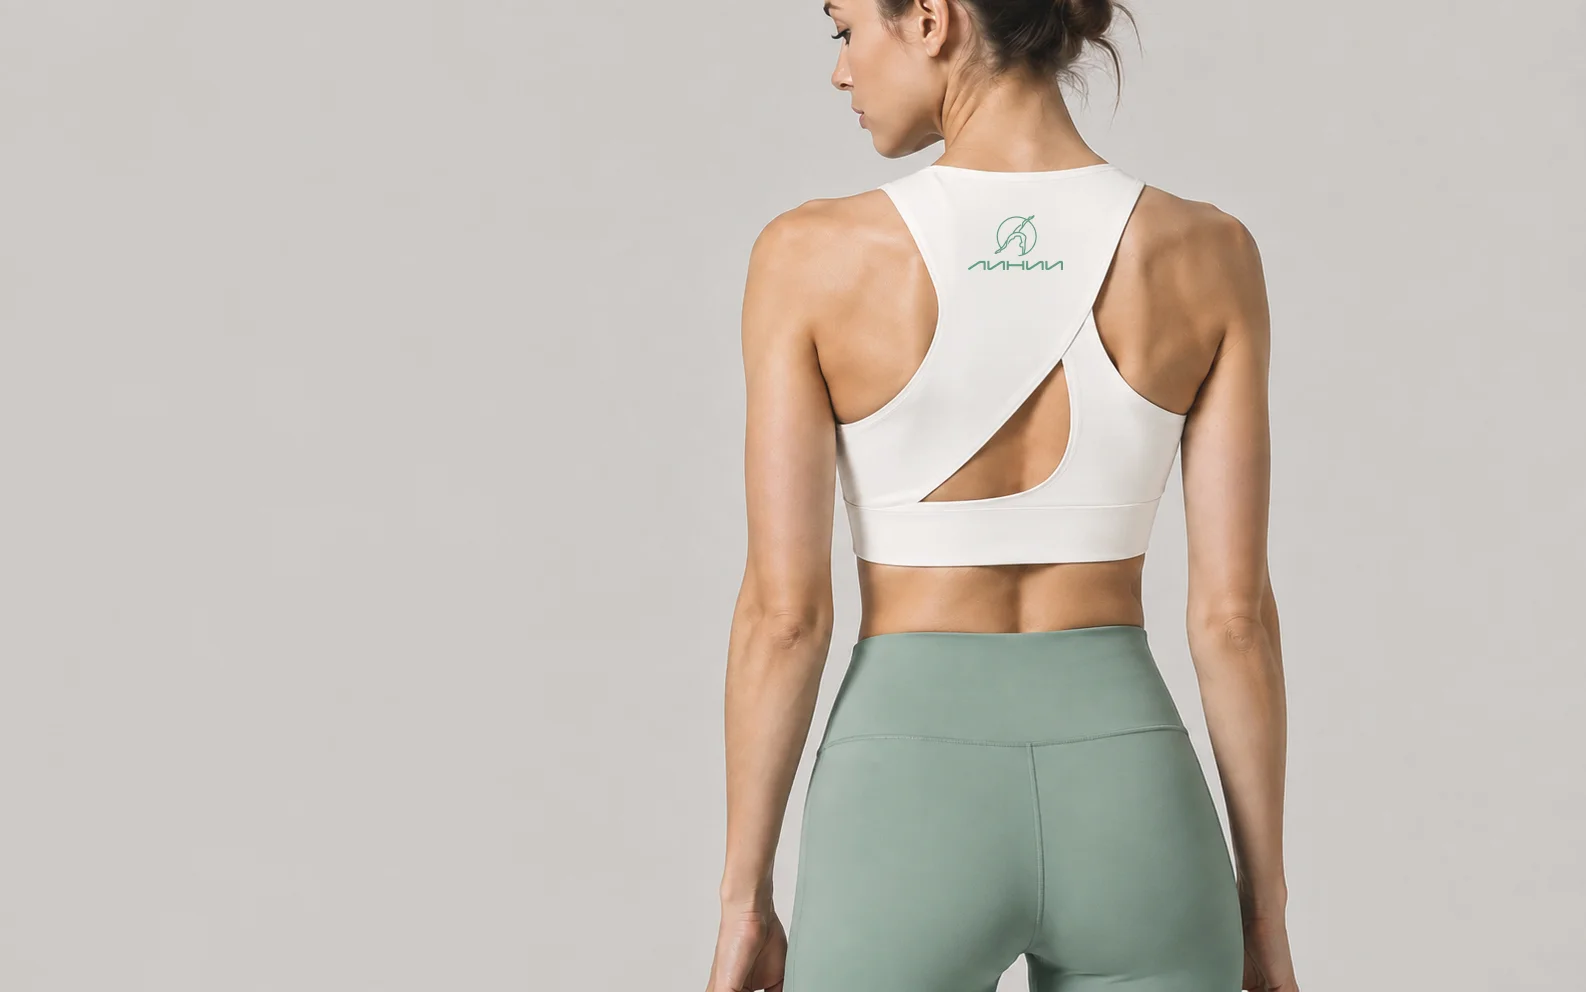
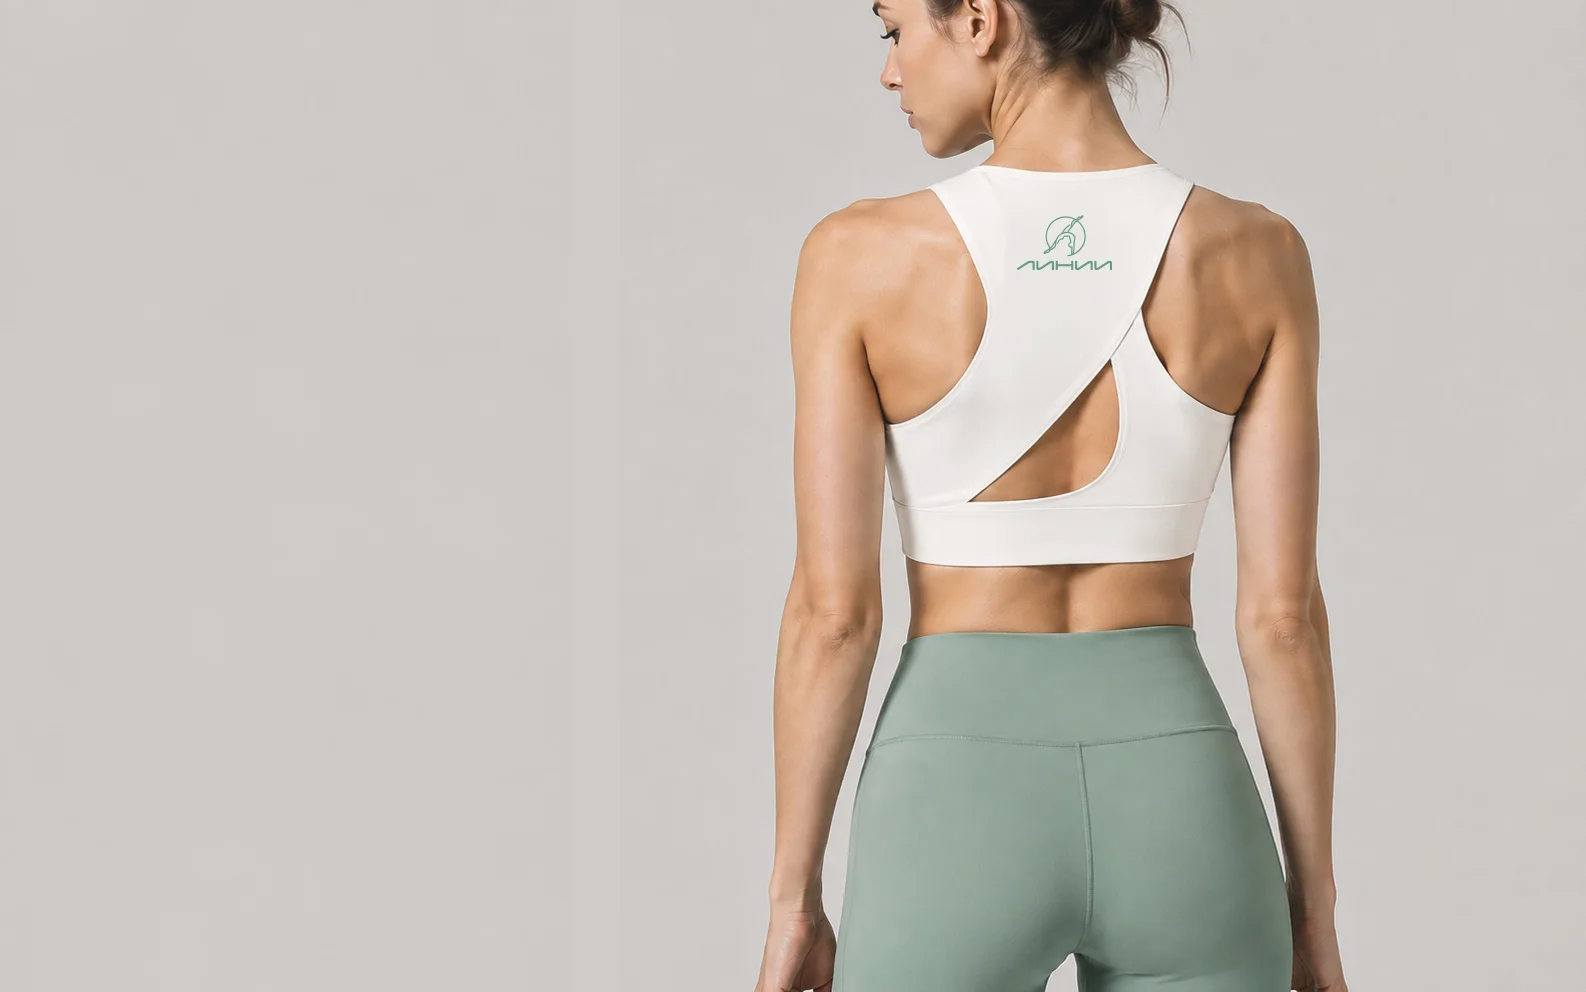
Tweak hero spacing a little bit

Changed region(s): [[0.4325, 0.0, 0.8651, 1.0], [0.587, 0.875, 0.7106, 1.0]]

diff --git a/src/assets/css/hero.css b/src/assets/css/hero.css
@@ -21,7 +21,7 @@
 
   /* CRITICAL CHANGE: Added top padding to clear the fixed navbar */
   /* Desktop: 100px nav height + 24px top margin + 36px buffer = 160px */
-  padding: 250px 0 80px;
+  padding: 250px 65px 80px;
 }
 
 @media (max-width: 768px) {

diff --git a/src/assets/css/main.css b/src/assets/css/main.css
@@ -257,7 +257,8 @@ body {
 }
 
 .lead-section {
-  padding-block: calc(1 * var(--section-spacing));
+  padding-block: calc(1.5 * var(--section-spacing))
+    calc(1 * var(--section-spacing));
 }
 
 .lead-section p {
